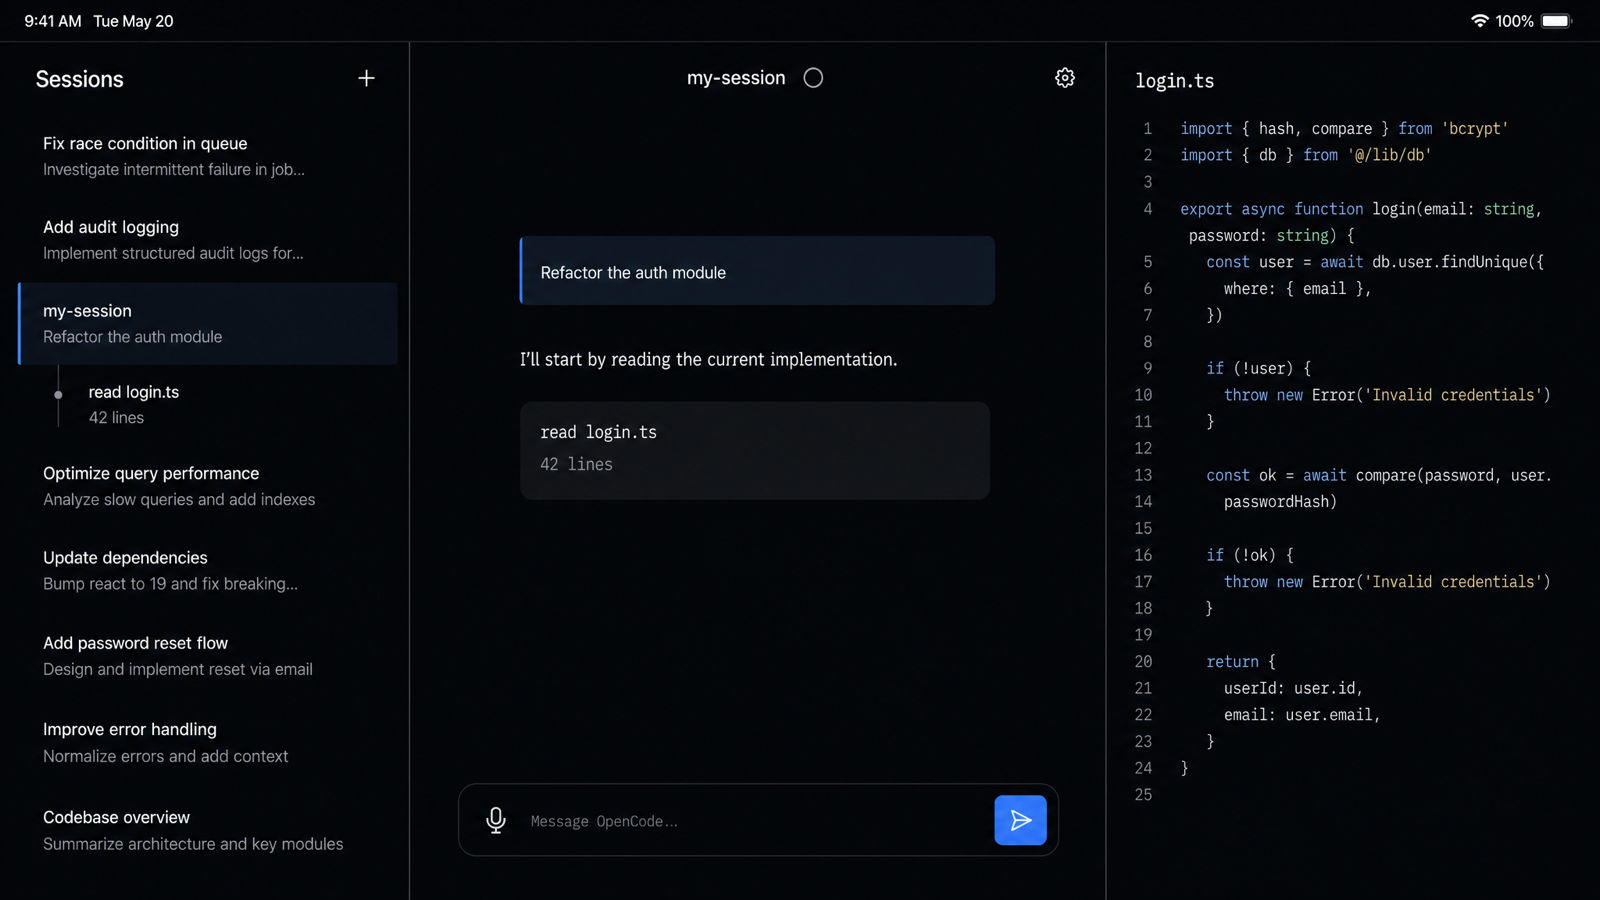
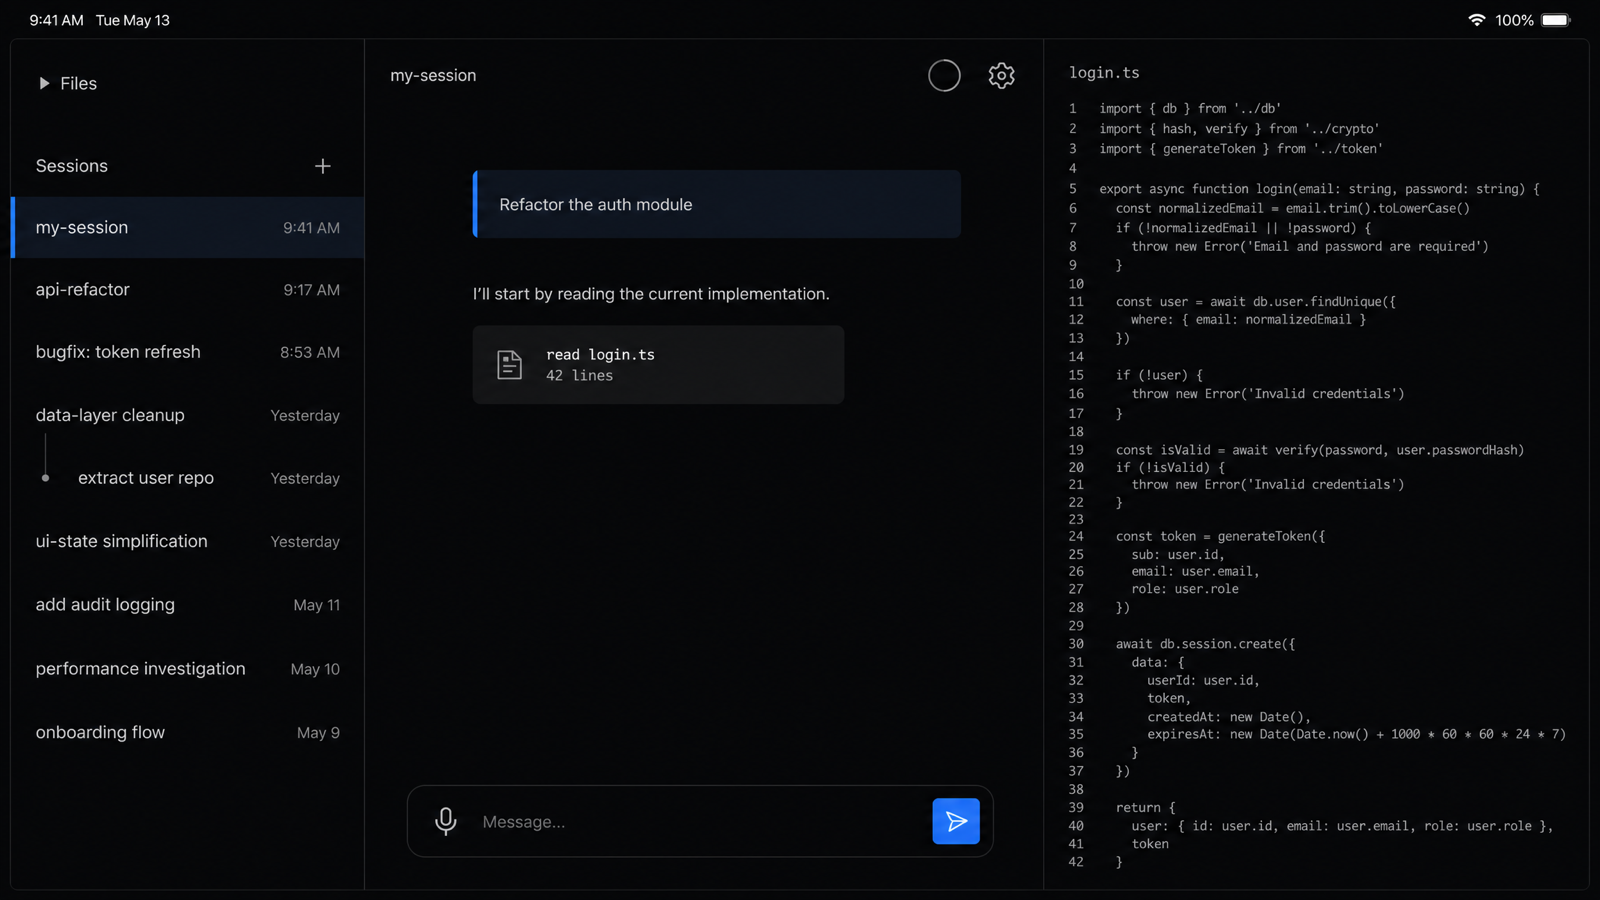
Align design spec + mockups to real shipped features (no ghost features)
After a full feature audit, fix the spec and mockups to match what the app
actually ships, so this can be implemented without surprises:

- Add a "feature boundary" section splitting visuals into shipped (visual-only
  change), proposed visual improvements (no new functionality), and out-of-scope.
- Code preview is plain monochrome text + line numbers today; syntax
  highlighting is marked future. Mockups now render code as plain gray text.
- iPad: file tree becomes a default-collapsed "Files" disclosure instead of a
  permanent column; left = Session list, center = Chat, right = single-file
  preview.
- Session rows show title + timestamp only — removed the non-existent
  summary-preview line.
- Regenerated the iPad three-column and iPhone Sessions mockups accordingly.

diff --git a/docs/design.md b/docs/design.md
@@ -142,29 +142,31 @@
 
 ### 大屏（iPad / visionOS，三栏，留白舒展）
 
-- 三栏常驻：左 = Session 列表（带摘要预览 + 父子连接线），中 = Chat，右 = Files/预览（可折叠）。
+现状是 `NavigationSplitView` 三栏（左 sidebar 上=file tree 下=Session 列表 / 中 文件预览 / 右 Chat）。这次的调整属于**改进**：
+
+- **三栏角色**：左 = Session 列表（树形，父子缩进 + leaf 圆点 + 选中态；行只有标题/时间/状态，**没有摘要预览**——别再画那个）；中 = Chat（主场）；右 = 文件预览（从 Chat 点 tool/patch 跳来的单文件预览，可折叠）。
+- **file tree 默认收起**（用户决策）：iPad 上文件树不再常驻占空间，降级为左栏顶部一个默认收起、可展开的 "Files" disclosure。它在 iPhone 上仍是独立 tab。把横向空间让给 Chat 和预览。
 - 大留白：屏幕水平边距 32pt，消息间距 28pt，卡片内边距 18pt。留白本身是"贵"的来源。
 - 内容列限宽：Chat 正文最大宽度约 720pt 居中，不铺满整个中栏——长行不利阅读，限宽是 editorial 的高级感。
-- Toolbar 可以更展开（大屏不挤），但仍遵守"最多一处彩色"。
+- 右栏文件预览：**代码纯文本 + 行号等宽渲染，无语法高亮**（现状如此，见下文 future 说明），不画彩色 token；Markdown 走预览，图片可缩放。
 - visionOS：沿用现有 `DesignControls` 的大尺寸 composer 分支（48/56pt 按钮，gaze 友好），材质用系统 glass，色彩 token 不变。
 
 ```
  iPad — 三栏（深色）
  ┌───────────────┬───────────────────────────┬──────────────┐
- │ Sessions   +  │  my-session        ◌  ⚙    │  login.ts    │
- │ ───────────── │                             │  ──────────  │
- │ ▎my-session   │   ▎Refactor the auth module │  1  import…  │
- │   auth refac… │                             │  2  export…  │
- │  └ sub-task   │   I'll start by reading the │  3          │
- │ chat-2        │   current implementation.   │  …           │
- │   fix tests   │                             │              │
- │               │   ┌ read login.ts ────────┐ │              │
- │               │   │ 42 lines              │ │              │
+ │ ▸ Files       │  my-session        ◌  ⚙    │  login.ts    │
+ │ Sessions   +  │                             │  ──────────  │
+ │ ───────────── │   ▎Refactor the auth module │  1  import…  │
+ │ ▎my-session   │                             │  2  export…  │
+ │  └ sub-task   │   I'll start by reading the │  3  …        │
+ │ chat-2        │   current implementation.   │              │
+ │               │   ┌ read login.ts ────────┐ │  纯文本+行号 │
+ │               │   │ 42 lines              │ │  无语法高亮  │
  │               │   └───────────────────────┘ │              │
- │               │                             │              │
  │               │   🎤 Message…         [ ▷ ] │              │
  └───────────────┴───────────────────────────┴──────────────┘
-       ↑ 摘要预览 + 连接线        ↑ 正文限宽 720pt 居中      ↑ 可折叠
+   ↑ ▸Files 默认收起        ↑ 正文限宽 720pt 居中    ↑ 单文件预览
+   Session 树（无摘要预览）
 ```
 
 ## 空状态与引导
@@ -179,6 +181,18 @@
 - 不做 splash 动画。
 - 不重新设计信息架构（Tab + 三栏是对的）。
 - 不让第二种彩色常驻——gold 只在"工作中"，其余时刻全灰 + 至多一处 accent。
+
+## 功能边界（这是实施稿，严格区分三类）
+
+这份 spec 要落地实现，所以每个视觉元素必须对得上真实功能。三类：
+
+**现状已有，本设计只改视觉、不改功能**：3 tab（Chat/Files/Settings）；iPhone Session 列表是 sheet；iPad 三栏；Chat 的 10 种消息渲染（用户消息、AI 文本、tool 卡、patch 卡、permission 卡、question 卡、todo、turn activity、streaming reasoning，step 不渲染）；markdown + 图片预览（可缩放）；file tree（展开折叠 + git 状态色）；composer（mic/send/stop + VoiceFlowKit 语音）；toolbar（session/rename/create/model-agent picker/context ring/settings）；Settings（Server/Project/SSH Tunnel/AI Builder/Appearance/About）；Session 树形嵌套 + swipe 删除；双模主题。
+
+**本设计的视觉改进（改的是观感，不新增功能）**：单一识别色收敛（permission 的绿/蓝/红、patch 的橙、tool 的蓝 → 统一电蓝 + gold 仅"工作中"）；卡片三态形态语言取代"多色同形"；用户消息左色条；composer 的 mic 移入框内、send 做成实底；iPad file tree 默认收起。这些都不依赖新后端能力，是纯前端视觉/布局调整。
+
+**明确不在本设计内（future / 不画进 mockup）**：
+- **代码语法高亮**：现状是纯文本 + 行号单色渲染（`Text(line)`），**没有**语法高亮。mockup 一律画纯文本。语法高亮列为 future enhancement——有技术成本（需要 tokenizer / highlight 库，且要兼顾性能和大文件），本轮不做、也不在图里假装有。
+- Session 行摘要预览、diff 侧边对比、消息搜索/编辑、文件上传等 audit 中"未 shipped"的项，一律不设计。
 
 ## 实现落点
 